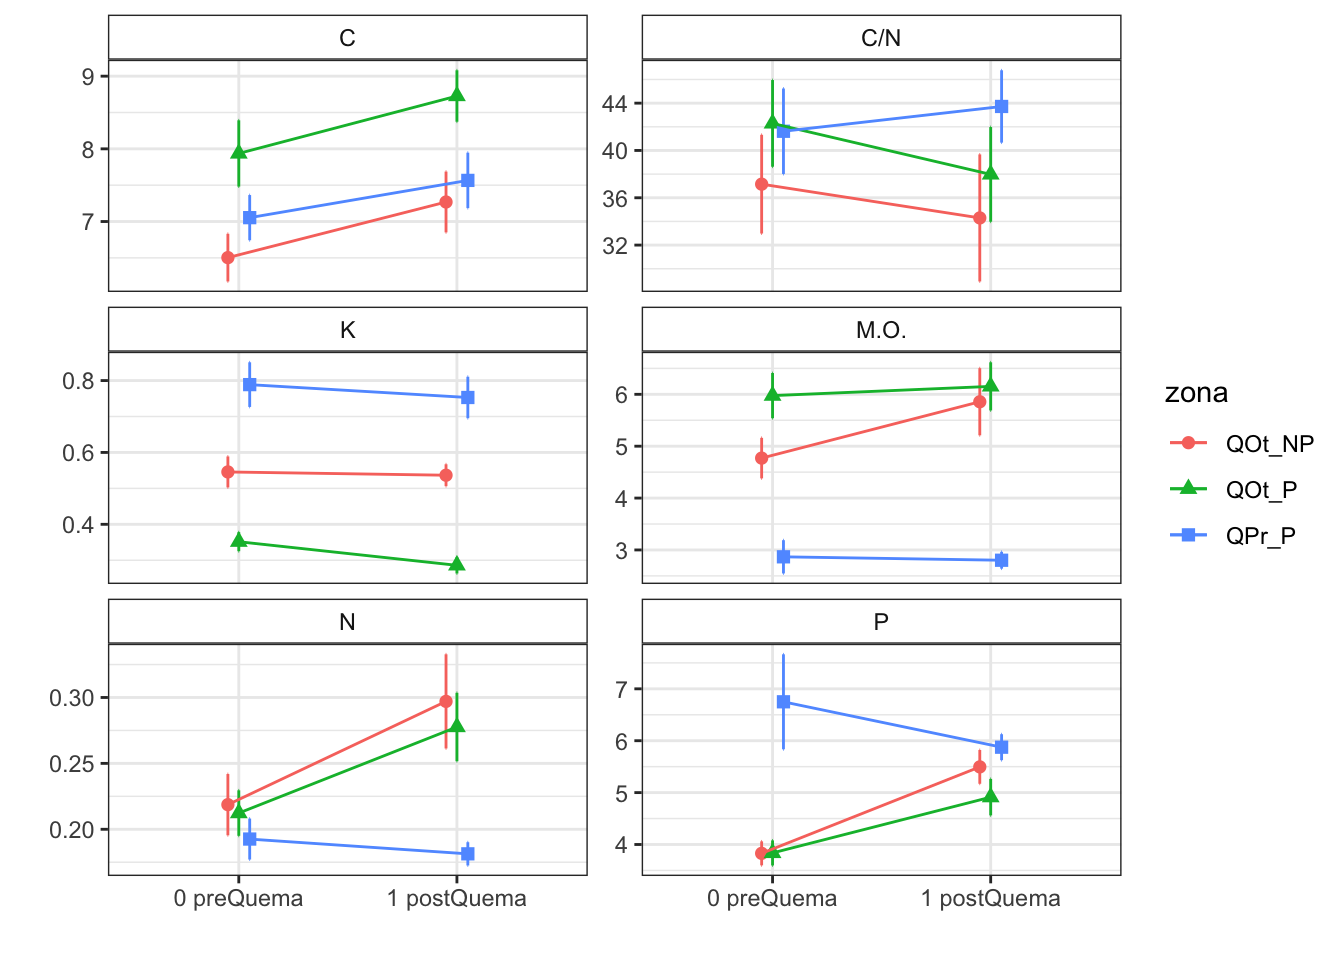
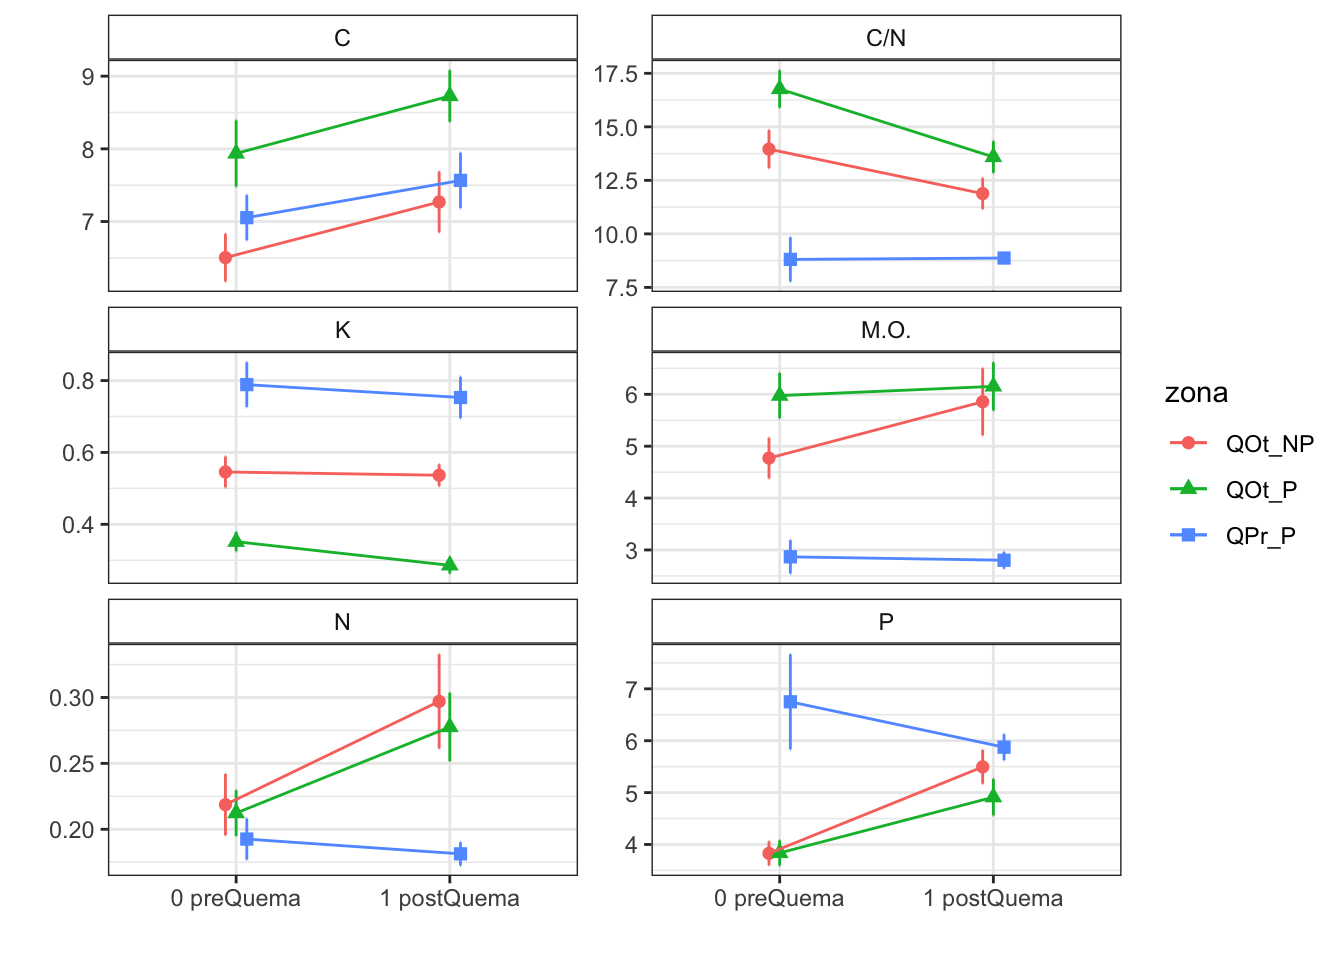
Build site.

diff --git a/docs/analysis_pre_post.html b/docs/analysis_pre_post.html
@@ -38,7 +38,7 @@
 <script src="site_libs/kePrint-0.0.1/kePrint.js"></script>
 <link href="site_libs/lightable-0.0.1/lightable.css" rel="stylesheet" />
 
-<link rel="icon" href="https://github.com/workflowr/workflowr-assets/raw/master/img/reproducible.png">
+<link rel="icon" href="https://github.com/workflowr/workflowr-assets/raw/main/img/reproducible.png">
 <!-- Add a small amount of space between sections. -->
 <style type="text/css">
 div.section {
@@ -325,7 +325,7 @@ div.tocify {
         <span class="icon-bar"></span>
         <span class="icon-bar"></span>
       </button>
-      <a class="navbar-brand" href="index.html">soil_alcontar</a>
+      <a class="navbar-brand" href="index.html">Soil Data analysis of Andalusia EP (Alcontar)</a>
     </div>
     <div id="navbar" class="navbar-collapse collapse">
       <ul class="nav navbar-nav">
@@ -333,10 +333,7 @@ div.tocify {
   <a href="index.html">Home</a>
 </li>
 <li>
-  <a href="about.html">About</a>
-</li>
-<li>
-  <a href="license.html">License</a>
+  <a href="study_area.html">Study Area</a>
 </li>
       </ul>
       <ul class="nav navbar-nav navbar-right">
@@ -375,7 +372,7 @@ div.tocify {
 <div class="tab-content">
 <div id="summary" class="tab-pane fade in active">
 <p>
-<strong>Last updated:</strong> 2021-09-14
+<strong>Last updated:</strong> 2022-02-17
 </p>
 <p>
 <strong>Checks:</strong> <span class="glyphicon glyphicon-ok text-success" aria-hidden="true"></span> 6 <span class="glyphicon glyphicon-exclamation-sign text-danger" aria-hidden="true"></span> 1
@@ -384,8 +381,8 @@ div.tocify {
 <strong>Knit directory:</strong> <code>soil_alcontar/</code> <span class="glyphicon glyphicon-question-sign" aria-hidden="true" title="This is the local directory in which the code in this file was executed."> </span>
 </p>
 <p>
-This reproducible <a href="http://rmarkdown.rstudio.com">R Markdown</a> analysis was created with <a
-  href="https://github.com/jdblischak/workflowr">workflowr</a> (version 1.6.2). The <em>Checks</em> tab describes the reproducibility checks that were applied when the results were created. The <em>Past versions</em> tab lists the development history.
+This reproducible <a href="https://rmarkdown.rstudio.com">R Markdown</a> analysis was created with <a
+  href="https://github.com/workflowr/workflowr">workflowr</a> (version 1.7.0). The <em>Checks</em> tab describes the reproducibility checks that were applied when the results were created. The <em>Past versions</em> tab lists the development history.
 </p>
 <hr>
 </div>
@@ -706,16 +703,16 @@ unnamed-chunk-9
 <div class="panel panel-default">
 <div class="panel-heading">
 <p class="panel-title">
-<a data-toggle="collapse" data-parent="#workflowr-checks" href="#strongRepositoryversionstrongahrefhttpsgithubcomserpamsoilalcontartreeecb1e66484553191d1ec1998239288bd2dd5d86ftargetblankecb1e66a"> <span class="glyphicon glyphicon-ok text-success" aria-hidden="true"></span> <strong>Repository version:</strong> <a href="https://github.com/serpam/soil_alcontar/tree/ecb1e66484553191d1ec1998239288bd2dd5d86f" target="_blank">ecb1e66</a> </a>
+<a data-toggle="collapse" data-parent="#workflowr-checks" href="#strongRepositoryversionstrongahrefhttpsgithubcomserpamsoilalcontartree896097542865548fc8006fb1dc66b8826bf4d149targetblank8960975a"> <span class="glyphicon glyphicon-ok text-success" aria-hidden="true"></span> <strong>Repository version:</strong> <a href="https://github.com/serpam/soil_alcontar/tree/896097542865548fc8006fb1dc66b8826bf4d149" target="_blank">8960975</a> </a>
 </p>
 </div>
[2 lines of base64/hex data omitted]
 <div class="panel-body">
 <p>
 Great! You are using Git for version control. Tracking code development and connecting the code version to the results is critical for reproducibility.
 </p>
 <p>
-The results in this page were generated with repository version <a href="https://github.com/serpam/soil_alcontar/tree/ecb1e66484553191d1ec1998239288bd2dd5d86f" target="_blank">ecb1e66</a>. See the <em>Past versions</em> tab to see a history of the changes made to the R Markdown and HTML files.
+The results in this page were generated with repository version <a href="https://github.com/serpam/soil_alcontar/tree/896097542865548fc8006fb1dc66b8826bf4d149" target="_blank">8960975</a>. See the <em>Past versions</em> tab to see a history of the changes made to the R Markdown and HTML files.
 </p>
 <p>
 Note that you need to be careful to ensure that all relevant files for the analysis have been committed to Git prior to generating the results (you can use <code>wflow_publish</code> or <code>wflow_git_commit</code>). workflowr only checks the R Markdown file, but you know if there are other scripts or data files that it depends on. Below is the status of the Git repository when the results were generated:
@@ -726,11 +723,13 @@ Ignored files:
     Ignored:    .Rhistory
     Ignored:    .Rproj.user/C369E4F4/
     Ignored:    .Rproj.user/shared/notebooks/0EF54E14-NOBORRAR/
+    Ignored:    .Rproj.user/shared/notebooks/27FF967E-analysis_pre_post_epoca/
     Ignored:    .Rproj.user/shared/notebooks/33E25F73-analysis_resilience/
     Ignored:    .Rproj.user/shared/notebooks/3F603CAC-map/
     Ignored:    .Rproj.user/shared/notebooks/4672E36C-study_area/
     Ignored:    .Rproj.user/shared/notebooks/4A68381F-general_overview_soils/
     Ignored:    .Rproj.user/shared/notebooks/4E13660A-temporal_comparison/
+    Ignored:    .Rproj.user/shared/notebooks/5D919DFD-analysis_zona_time_postFire/
     Ignored:    .Rproj.user/shared/notebooks/827D0727-analysis_pre_post/
     Ignored:    .Rproj.user/shared/notebooks/A3F813C2-index/
     Ignored:    .Rproj.user/shared/notebooks/D4E3AA10-analysis_zona_time/
@@ -738,20 +737,23 @@ Ignored files:
 Untracked files:
     Untracked:  analysis/NOBORRAR.Rmd
     Untracked:  analysis/analysis_pre_post_cache/
-    Untracked:  analysis/study_area.Rmd
     Untracked:  analysis/test.Rmd
-    Untracked:  data/spatial/01_EP_ANDALUCIA/EP_Andalucía.shp.DESKTOP-CKNNEUJ.5492.5304.sr.lock
     Untracked:  data/spatial/lucdeme/
-    Untracked:  data/spatial/parcelas/GEO_PARCELAS.shp.DESKTOP-CKNNEUJ.5492.5304.sr.lock
     Untracked:  data/spatial/test/
     Untracked:  map.Rmd
+    Untracked:  output/anovas_pre_post_epoca.csv
     Untracked:  output/anovas_zona_time.csv
+    Untracked:  output/anovas_zona_time_postFire.csv
+    Untracked:  output/meanboot_pre_post_epoca.csv
     Untracked:  scripts/generate_3dview.R
 
 Unstaged changes:
+    Modified:   analysis/_site.yml
+    Modified:   data/Resultados_Suelos_2018_2021_v2.xlsx
     Modified:   data/spatial/.DS_Store
     Modified:   data/spatial/01_EP_ANDALUCIA/EP_Andalucía.dbf
     Deleted:    index.Rmd
+    Modified:   output/anovas_pre_post.csv
     Modified:   scripts/00_prepare_data.R
     Modified:   temporal_comparison.Rmd
 
@@ -792,6 +794,23 @@ Message
 </tr>
 </thead>
 <tbody>
+<tr>
+<td>
+html
+</td>
+<td>
+<a href="https://rawcdn.githack.com/serpam/soil_alcontar/eadc8da5200365eae16a8bb434b791ec2033ca32/docs/analysis_pre_post.html" target="_blank">eadc8da</a>
+</td>
+<td>
+ajpelu
+</td>
+<td>
+2021-09-14
+</td>
+<td>
+Build site.
+</td>
+</tr>
 <tr>
 <td>
 Rmd
@@ -1671,10 +1690,10 @@ Calculating p-values. [DONE]</code></pre>
 
 Model: c_n ~ pre_post_quema * zona + (1 | zona:geo_parcela_nombre)
 Data: df_model
-               Effect     df    F p.value
-1      pre_post_quema 1, 129 0.32    .574
-2                zona   2, 9 0.43    .663
-3 pre_post_quema:zona 2, 129 0.42    .659
+               Effect     df        F p.value
+1      pre_post_quema 1, 129  7.82 **    .006
+2                zona   2, 9 15.56 **    .001
+3 pre_post_quema:zona 2, 129   2.37 +    .098
 ---
 Signif. codes:  0 &#39;***&#39; 0.001 &#39;**&#39; 0.01 &#39;*&#39; 0.05 &#39;+&#39; 0.1 &#39; &#39; 1</code></pre>
 <pre><code>Fitting one lmer() model. [DONE]
@@ -1683,33 +1702,35 @@ Calculating p-values. [DONE]</code></pre>
 
 Model: c_n ~ pre_post_quema * zona + (1 | zona:geo_parcela_nombre)
 Data: df_model
-                    num Df den Df      F Pr(&gt;F)
-pre_post_quema           1    129 0.3175 0.5741
-zona                     2      9 0.4310 0.6626
-pre_post_quema:zona      2    129 0.4183 0.6591</code></pre>
+                    num Df den Df       F   Pr(&gt;F)   
+pre_post_quema           1    129  7.8222 0.005951 **
+zona                     2      9 15.5645 0.001198 **
+pre_post_quema:zona      2    129  2.3682 0.097712 . 
+---
+Signif. codes:  0 &#39;***&#39; 0.001 &#39;**&#39; 0.01 &#39;*&#39; 0.05 &#39;.&#39; 0.1 &#39; &#39; 1</code></pre>
 </div>
 <div id="post-hoc-7" class="section level3">
 <h3><em>Post-hoc</em></h3>
 <pre><code>$`emmeans of pre_post_quema`
  pre_post_quema emmean      SE  df asymp.LCL asymp.UCL
- 0 preQuema     0.0269 0.00248 Inf    0.0221    0.0318
- 1 postQuema    0.0281 0.00250 Inf    0.0232    0.0330
+ 0 preQuema     0.0829 0.00412 Inf    0.0748    0.0909
+ 1 postQuema    0.0913 0.00425 Inf    0.0830    0.0996
 
 Results are averaged over the levels of: zona 
 Results are given on the inverse (not the response) scale. 
 Confidence level used: 0.95 
 
 $`pairwise differences of pre_post_quema`
- 1                        estimate     SE  df z.ratio p.value
- 0 preQuema - 1 postQuema -0.00119 0.0016 Inf -0.743  0.4574 
+ 1                        estimate      SE  df z.ratio p.value
+ 0 preQuema - 1 postQuema -0.00845 0.00383 Inf -2.206  0.0274 
 
 Results are averaged over the levels of: zona 
 Note: contrasts are still on the inverse scale </code></pre>
 <pre><code>$`emmeans of zona`
  zona   emmean      SE  df asymp.LCL asymp.UCL
- QOt_NP 0.0301 0.00398 Inf    0.0223    0.0379
- QOt_P  0.0275 0.00403 Inf    0.0196    0.0354
- QPr_P  0.0249 0.00402 Inf    0.0171    0.0328
+ QOt_NP 0.0796 0.00627 Inf    0.0673    0.0919
+ QOt_P  0.0676 0.00631 Inf    0.0553    0.0800
+ QPr_P  0.1140 0.00657 Inf    0.1011    0.1268
 
 Results are averaged over the levels of: pre_post_quema 
 Results are given on the inverse (not the response) scale. 
@@ -1717,9 +1738,9 @@ Confidence level used: 0.95
 
 $`pairwise differences of zona`
  1              estimate      SE  df z.ratio p.value
- QOt_NP - QOt_P  0.00257 0.00559 Inf 0.459   0.8904 
- QOt_NP - QPr_P  0.00514 0.00562 Inf 0.915   0.6311 
- QOt_P - QPr_P   0.00257 0.00566 Inf 0.455   0.8923 
+ QOt_NP - QOt_P   0.0120 0.00884 Inf  1.355  0.3648 
+ QOt_NP - QPr_P  -0.0343 0.00903 Inf -3.804  0.0004 
+ QOt_P - QPr_P   -0.0463 0.00908 Inf -5.101  &lt;.0001 
 
 Results are averaged over the levels of: pre_post_quema 
 Note: contrasts are still on the inverse scale 
@@ -1727,18 +1748,18 @@ P value adjustment: tukey method for comparing a family of 3 estimates </code></
 <pre><code>$`emmeans of pre_post_quema | zona`
 zona = QOt_NP:
  pre_post_quema emmean      SE  df asymp.LCL asymp.UCL
- 0 preQuema     0.0290 0.00422 Inf    0.0207    0.0373
- 1 postQuema    0.0312 0.00431 Inf    0.0227    0.0396
+ 0 preQuema     0.0735 0.00672 Inf    0.0603    0.0866
+ 1 postQuema    0.0858 0.00711 Inf    0.0719    0.0997
 
 zona = QOt_P:
  pre_post_quema emmean      SE  df asymp.LCL asymp.UCL
- 0 preQuema     0.0263 0.00421 Inf    0.0180    0.0345
- 1 postQuema    0.0288 0.00429 Inf    0.0204    0.0372
+ 0 preQuema     0.0607 0.00659 Inf    0.0478    0.0737
+ 1 postQuema    0.0746 0.00698 Inf    0.0609    0.0882
 
 zona = QPr_P:
  pre_post_quema emmean      SE  df asymp.LCL asymp.UCL
- 0 preQuema     0.0255 0.00424 Inf    0.0172    0.0338
- 1 postQuema    0.0244 0.00420 Inf    0.0162    0.0326
+ 0 preQuema     0.1144 0.00785 Inf    0.0990    0.1298
+ 1 postQuema    0.1136 0.00781 Inf    0.0982    0.1289
 
 Results are given on the inverse (not the response) scale. 
 Confidence level used: 0.95 
@@ -1746,15 +1767,15 @@ Confidence level used: 0.95
 $`pairwise differences of pre_post_quema | zona`
 zona = QOt_NP:
  2                        estimate      SE  df z.ratio p.value
- 0 preQuema - 1 postQuema -0.00215 0.00305 Inf -0.706  0.4803 
+ 0 preQuema - 1 postQuema -0.01236 0.00585 Inf -2.111  0.0348 
 
 zona = QOt_P:
  2                        estimate      SE  df z.ratio p.value
- 0 preQuema - 1 postQuema -0.00252 0.00269 Inf -0.939  0.3479 
+ 0 preQuema - 1 postQuema -0.01382 0.00503 Inf -2.750  0.0060 
 
 zona = QPr_P:
  2                        estimate      SE  df z.ratio p.value
- 0 preQuema - 1 postQuema  0.00111 0.00255 Inf  0.435  0.6635 
+ 0 preQuema - 1 postQuema  0.00083 0.00851 Inf  0.097  0.9224 
 
 Note: contrasts are still on the inverse scale </code></pre>
 </div>
@@ -2818,12 +2839,12 @@ Note: contrasts are still on the inverse scale </code></pre>
 <td class="gt_row gt_center">8.73 (0.35)</td>
 <td class="gt_row gt_center">7.57 (0.38)</td></tr>
     <tr><td class="gt_row gt_left">c_n</td>
-<td class="gt_row gt_center">37.15 (4.17)</td>
-<td class="gt_row gt_center">42.29 (3.66)</td>
-<td class="gt_row gt_center">41.62 (3.62)</td>
-<td class="gt_row gt_center">34.30 (5.37)</td>
-<td class="gt_row gt_center">37.98 (4.00)</td>
-<td class="gt_row gt_center">43.72 (3.06)</td></tr>
+<td class="gt_row gt_center">13.96 (0.89)</td>
+<td class="gt_row gt_center">16.77 (0.87)</td>
+<td class="gt_row gt_center">8.81 (1.03)</td>
+<td class="gt_row gt_center">11.88 (0.72)</td>
+<td class="gt_row gt_center">13.59 (0.74)</td>
+<td class="gt_row gt_center">8.87 (0.22)</td></tr>
     <tr><td class="gt_row gt_left">cic</td>
 <td class="gt_row gt_center">15.67 (0.38)</td>
 <td class="gt_row gt_center">17.54 (0.49)</td>
@@ -2992,6 +3013,17 @@ Date
 <tbody>
 <tr>
 <td>
+<a href="https://github.com/serpam/soil_alcontar/blob/eadc8da5200365eae16a8bb434b791ec2033ca32/docs/figure/analysis_pre_post.Rmd/unnamed-chunk-40-1.png" target="_blank">eadc8da</a>
+</td>
+<td>
+ajpelu
+</td>
+<td>
+2021-09-14
+</td>
+</tr>
+<tr>
+<td>
 <a href="https://github.com/serpam/soil_alcontar/blob/71c36ddaac21386286608e742cc7428fb43ad058/docs/figure/analysis_pre_post.Rmd/unnamed-chunk-40-1.png" target="_blank">71c36dd</a>
 </td>
 <td>
@@ -3059,22 +3091,22 @@ p
 c_n
 </td>
 <td style="text-align:right;">
-0.431
+15.564
 </td>
 <td style="text-align:right;">
-0.663
+0.001
 </td>
 <td style="text-align:right;">
-0.318
+7.822
 </td>
 <td style="text-align:right;">
-0.574
+0.006
 </td>
 <td style="text-align:right;">
-0.418
+2.368
 </td>
 <td style="text-align:right;">
-0.659
+0.098
 </td>
 </tr>
 <tr>
@@ -3401,19 +3433,19 @@ attached base packages:
 
 other attached packages:
  [1] kableExtra_1.3.1   gtsummary_1.4.2    plotrix_3.8-1      glmmTMB_1.0.2.1   
- [5] afex_0.28-1        performance_0.7.2  multcomp_1.4-16    TH.data_1.0-10    
+ [5] afex_0.28-1        performance_0.8.0  multcomp_1.4-16    TH.data_1.0-10    
  [9] mvtnorm_1.1-1      emmeans_1.5.4      lmerTest_3.1-3     lme4_1.1-27.1     
 [13] Matrix_1.3-2       fitdistrplus_1.1-3 survival_3.2-7     MASS_7.3-53       
 [17] ggpubr_0.4.0       janitor_2.1.0      here_1.0.1         forcats_0.5.1     
 [21] stringr_1.4.0      dplyr_1.0.6        purrr_0.3.4        readr_1.4.0       
 [25] tidyr_1.1.3        tibble_3.1.2       ggplot2_3.3.5      tidyverse_1.3.1   
-[29] rmdformats_1.0.1   knitr_1.31         workflowr_1.6.2   
+[29] rmdformats_1.0.1   knitr_1.31         workflowr_1.7.0   
 
 loaded via a namespace (and not attached):
-  [1] minqa_1.2.4         colorspace_2.0-0    ggsignif_0.6.0     
+  [1] minqa_1.2.4         colorspace_2.0-2    ggsignif_0.6.0     
   [4] ellipsis_0.3.2      rio_0.5.16          rprojroot_2.0.2    
   [7] estimability_1.3    snakecase_0.11.0    fs_1.5.0           
- [10] rstudioapi_0.13     farver_2.0.3        fansi_0.4.2        
+ [10] rstudioapi_0.13     farver_2.1.0        fansi_0.4.2        
  [13] lubridate_1.7.10    xml2_1.3.2          codetools_0.2-18   
  [16] splines_4.0.2       jsonlite_1.7.2      nloptr_1.2.2.2     
  [19] gt_0.3.0            pbkrtest_0.5-0.1    broom_0.7.9        
@@ -3424,26 +3456,27 @@ loaded via a namespace (and not attached):
  [34] gtable_0.3.0        glue_1.4.2          reshape2_1.4.4     
  [37] Rcpp_1.0.7          carData_3.0-4       cellranger_1.1.0   
  [40] jquerylib_0.1.3     vctrs_0.3.8         nlme_3.1-152       
- [43] broom.helpers_1.3.0 insight_0.14.4      xfun_0.23          
- [46] openxlsx_4.2.3      rvest_1.0.0         lifecycle_1.0.0    
- [49] rstatix_0.6.0       zoo_1.8-8           scales_1.1.1       
- [52] hms_1.0.0           promises_1.2.0.1    parallel_4.0.2     
- [55] sandwich_3.0-0      TMB_1.7.19          yaml_2.2.1         
- [58] curl_4.3            sass_0.3.1          stringi_1.7.4      
- [61] highr_0.8           checkmate_2.0.0     boot_1.3-26        
- [64] zip_2.1.1           commonmark_1.7      rlang_0.4.10       
- [67] pkgconfig_2.0.3     evaluate_0.14       lattice_0.20-41    
- [70] labeling_0.4.2      tidyselect_1.1.1    plyr_1.8.6         
- [73] magrittr_2.0.1      bookdown_0.21.6     R6_2.5.0           
- [76] generics_0.1.0      DBI_1.1.1           pillar_1.6.1       
- [79] haven_2.3.1         whisker_0.4         foreign_0.8-81     
- [82] withr_2.4.1         abind_1.4-5         modelr_0.1.8       
- [85] crayon_1.4.1        car_3.0-10          utf8_1.1.4         
- [88] rmarkdown_2.8       grid_4.0.2          readxl_1.3.1       
- [91] data.table_1.14.0   git2r_0.28.0        webshot_0.5.2      
- [94] reprex_2.0.0        digest_0.6.27       xtable_1.8-4       
- [97] httpuv_1.5.5        numDeriv_2016.8-1.1 munsell_0.5.0      
-[100] viridisLite_0.3.0   bslib_0.2.4        </code></pre>
+ [43] broom.helpers_1.4.0 insight_0.14.4      xfun_0.23          
+ [46] ps_1.5.0            openxlsx_4.2.3      rvest_1.0.0        
+ [49] lifecycle_1.0.1     rstatix_0.6.0       zoo_1.8-8          
+ [52] getPass_0.2-2       scales_1.1.1.9000   hms_1.0.0          
+ [55] promises_1.2.0.1    parallel_4.0.2      sandwich_3.0-0     
+ [58] TMB_1.7.19          yaml_2.2.1          curl_4.3           
+ [61] sass_0.3.1          stringi_1.7.4       highr_0.8          
+ [64] checkmate_2.0.0     boot_1.3-26         zip_2.1.1          
+ [67] commonmark_1.7      rlang_0.4.12        pkgconfig_2.0.3    
+ [70] evaluate_0.14       lattice_0.20-41     labeling_0.4.2     
+ [73] processx_3.5.1      tidyselect_1.1.1    plyr_1.8.6         
+ [76] magrittr_2.0.1      bookdown_0.21.6     R6_2.5.1           
+ [79] generics_0.1.0      DBI_1.1.1           pillar_1.6.1       
+ [82] haven_2.3.1         whisker_0.4         foreign_0.8-81     
+ [85] withr_2.4.1         abind_1.4-5         modelr_0.1.8       
+ [88] crayon_1.4.1        car_3.0-10          utf8_1.1.4         
+ [91] rmarkdown_2.8       grid_4.0.2          readxl_1.3.1       
+ [94] data.table_1.14.0   callr_3.7.0         git2r_0.28.0       
+ [97] webshot_0.5.2       reprex_2.0.0        digest_0.6.27      
+[100] xtable_1.8-4       
+ [ reached getOption(&quot;max.print&quot;) -- omitted 5 entries ]</code></pre>
 </div>
 </div>
 </div>
@@ -3451,7 +3484,7 @@ loaded via a namespace (and not attached):
 
 <!-- Adjust MathJax settings so that all math formulae are shown using
 TeX fonts only; see
-http://docs.mathjax.org/en/latest/configuration.html.  This will make
+https://docs.mathjax.org/en/latest/web/configuration.html. This will make
 the presentation more consistent at the cost of the webpage sometimes
 taking slightly longer to load. Note that this only works because the
 footer is added to webpages before the MathJax javascript. -->
